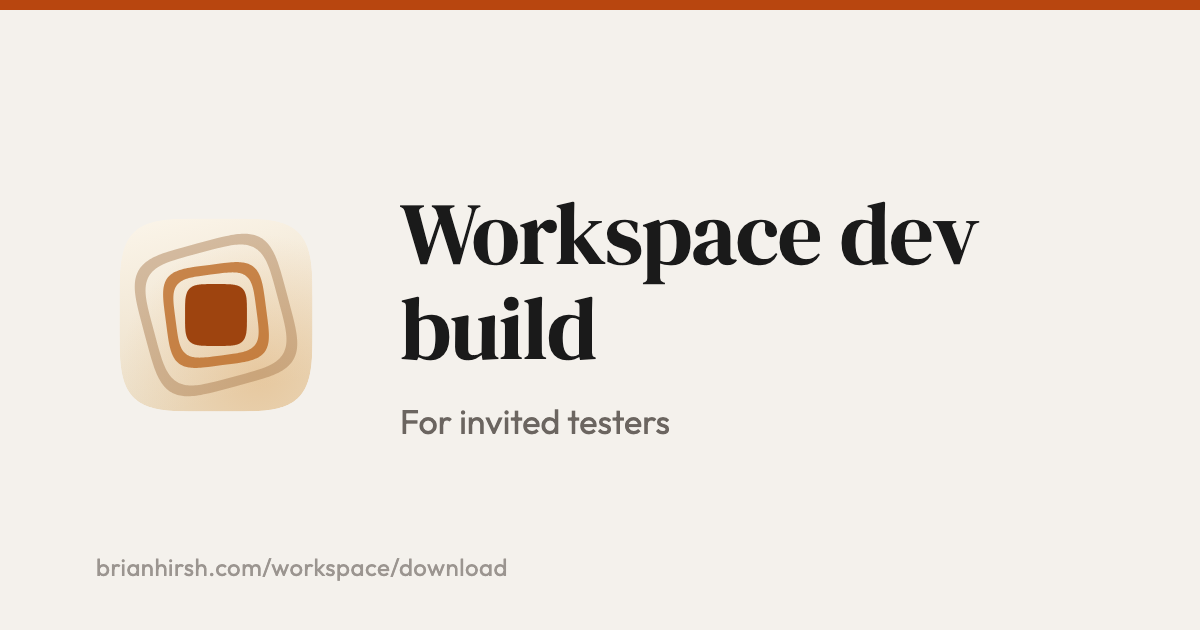
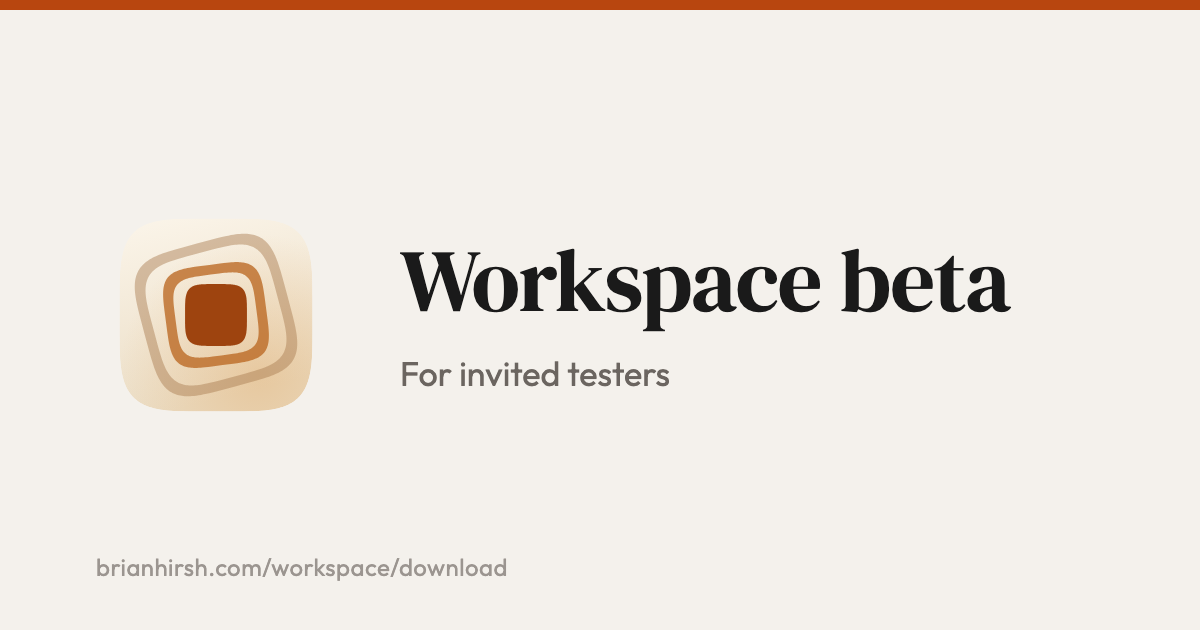
Beta, not dev build, across the Workspace pages and their previews (Brian, 27 Oct)
Every visitor-facing "dev build" becomes "beta", with MC: Invite's words: the eyebrow and section labels read "Beta", "Download the beta →", "This is an early beta, not a finished product.", "This is a beta, so expect rough edges and frequent updates.", and the signup lede "This is an early beta, not a finished product — expect rough edges." The signup and download descriptions and the download card's text follow Link previews.md, and the download card is drawn again. Code comments and api/README.md, which never reach a page, are left as they were.

Changed region(s): [[0.3083, 0.3016, 0.8633, 0.6937]]

diff --git a/workspace/download/index.html b/workspace/download/index.html
@@ -4,24 +4,24 @@
 <meta charset="UTF-8">
 <meta name="viewport" content="width=device-width, initial-scale=1.0">
 <title>Download Workspace — for invited testers</title>
-<meta name="description" content="For people who already have access: enter your password to download the current Workspace dev build. No password yet? Request access.">
+<meta name="description" content="For people who already have access: enter your password to download the current Workspace beta. No password yet? Request access.">
 <!-- Link previews (Marketing/Beta Signups/Link previews.md, 27 Oct 2026); the card is drawn by tools/make-og.mjs. -->
 <link rel="canonical" href="https://www.brianhirsh.com/workspace/download/">
 <meta property="og:type" content="website">
 <meta property="og:site_name" content="Brian Hirsh">
 <meta property="og:title" content="Download Workspace — for invited testers">
-<meta property="og:description" content="For people who already have access: enter your password to download the current Workspace dev build. No password yet? Request access.">
+<meta property="og:description" content="For people who already have access: enter your password to download the current Workspace beta. No password yet? Request access.">
 <meta property="og:url" content="https://www.brianhirsh.com/workspace/download/">
 <meta property="og:image" content="https://www.brianhirsh.com/og/workspace-download.png">
 <meta property="og:image:type" content="image/png">
 <meta property="og:image:width" content="1200">
 <meta property="og:image:height" content="630">
-<meta property="og:image:alt" content="Workspace dev build · For invited testers">
+<meta property="og:image:alt" content="Workspace beta · For invited testers">
 <meta name="twitter:card" content="summary_large_image">
 <meta name="twitter:title" content="Download Workspace — for invited testers">
-<meta name="twitter:description" content="For people who already have access: enter your password to download the current Workspace dev build. No password yet? Request access.">
+<meta name="twitter:description" content="For people who already have access: enter your password to download the current Workspace beta. No password yet? Request access.">
 <meta name="twitter:image" content="https://www.brianhirsh.com/og/workspace-download.png">
-<meta name="twitter:image:alt" content="Workspace dev build · For invited testers">
+<meta name="twitter:image:alt" content="Workspace beta · For invited testers">
 <meta name="theme-color" content="#F4F1EC" media="(prefers-color-scheme: light)">
 <meta name="theme-color" content="#141312" media="(prefers-color-scheme: dark)">
 <link rel="icon" type="image/svg+xml" href="/workspace/media/workspace-logo-light.svg">
@@ -153,7 +153,7 @@
     <!-- LOCKED -->
     <div id="gate">
       <div class="gate-head">
-        <div class="section-label">Dev Build</div>
+        <div class="section-label">Beta</div>
         <h1 class="page-title">Download Workspace</h1>
         <!-- Keep in sync with the DMG_VERSION environment variable, which
              drives the version shown after unlocking. -->
@@ -191,7 +191,7 @@
 
       <section class="terms">
           <h2>Before you install</h2>
-          <p><strong>This is an unreleased dev build, not a finished product.</strong> It may crash, behave strangely, lose data or change without warning. Please don't use it for anything you'd be upset to lose, and don't depend on it for real work.</p>
+          <p><strong>This is an early beta, not a finished product.</strong> It may crash, behave strangely, lose data or change without warning. Please don't use it for anything you'd be upset to lose, and don't depend on it for real work.</p>
           <p>It comes with no warranty of any kind, and I'm not liable for anything that goes wrong while you're using it.</p>
           <p><strong>It's shared with you privately.</strong> Workspace and everything in it stays my property. Please don't pass on the app, the download link or the password, and don't copy, reuse, republish, decompile or reverse-engineer any part of it. All rights reserved.</p>
           <p>Downloading it means you're happy with that. If you'd rather not be, just email me instead.</p>
@@ -211,7 +211,7 @@
               <strong>Open Anyway</strong>. On <strong>macOS 14 and earlier</strong>,
               right-click the app and choose <strong>Open</strong>.</li>
         </ol>
-        This is a dev build, so expect rough edges and frequent updates.
+        This is a beta, so expect rough edges and frequent updates.
         Hit a bug? Reply to the email I sent you, or write to
         <a href="mailto:brian@brianhirsh.com?subject=Workspace%20dev%20build%20feedback">brian@brianhirsh.com</a>.
       </div>

diff --git a/workspace/signup/index.html b/workspace/signup/index.html
@@ -4,13 +4,13 @@
 <meta charset="UTF-8">
 <meta name="viewport" content="width=device-width, initial-scale=1.0">
 <title>Request access to Workspace</title>
-<meta name="description" content="Get the early Workspace dev build for your Mac. Leave a name and an email or phone; it goes straight to Brian and nothing else is stored.">
+<meta name="description" content="Get the early Workspace beta for your Mac. Leave a name and an email or phone; it goes straight to Brian and nothing else is stored.">
 <!-- Link previews (Marketing/Beta Signups/Link previews.md, 27 Oct 2026); the card is drawn by tools/make-og.mjs. -->
 <link rel="canonical" href="https://www.brianhirsh.com/workspace/signup/">
 <meta property="og:type" content="website">
 <meta property="og:site_name" content="Brian Hirsh">
 <meta property="og:title" content="Request access to Workspace">
-<meta property="og:description" content="Get the early Workspace dev build for your Mac. Leave a name and an email or phone; it goes straight to Brian and nothing else is stored.">
+<meta property="og:description" content="Get the early Workspace beta for your Mac. Leave a name and an email or phone; it goes straight to Brian and nothing else is stored.">
 <meta property="og:url" content="https://www.brianhirsh.com/workspace/signup/">
 <meta property="og:image" content="https://www.brianhirsh.com/og/workspace-signup.png">
 <meta property="og:image:type" content="image/png">
@@ -19,7 +19,7 @@
 <meta property="og:image:alt" content="Request early access to Workspace">
 <meta name="twitter:card" content="summary_large_image">
 <meta name="twitter:title" content="Request access to Workspace">
-<meta name="twitter:description" content="Get the early Workspace dev build for your Mac. Leave a name and an email or phone; it goes straight to Brian and nothing else is stored.">
+<meta name="twitter:description" content="Get the early Workspace beta for your Mac. Leave a name and an email or phone; it goes straight to Brian and nothing else is stored.">
 <meta name="twitter:image" content="https://www.brianhirsh.com/og/workspace-signup.png">
 <meta name="twitter:image:alt" content="Request early access to Workspace">
 <meta name="theme-color" content="#F4F1EC" media="(prefers-color-scheme: light)">
@@ -61,9 +61,9 @@
     <a href="/workspace/" class="back-link">← Workspace</a>
 
     <div class="form-head">
-      <div class="section-label">Dev Build</div>
+      <div class="section-label">Beta</div>
       <h1 class="page-title">Request access</h1>
-      <p class="lede">This is an <strong>early dev build</strong>, not a polished beta — expect rough edges.</p>
+      <p class="lede">This is an <strong>early beta</strong>, not a finished product — expect rough edges.</p>
     </div>
 
     <form id="signupForm" novalidate>

diff --git a/workspace/index.html b/workspace/index.html
@@ -266,7 +266,7 @@
   </nav>
 
   <div class="intro fade-up">
-    <div class="eyebrow">Dev Build</div>
+    <div class="eyebrow">Beta</div>
     <picture class="app-icon">
       <source media="(prefers-color-scheme: dark)" srcset="/workspace/media/workspace-logo-dark.svg">
       <img src="/workspace/media/workspace-logo-light.svg" alt="" width="96" height="96" decoding="async">
@@ -309,7 +309,7 @@
       </a>
     </div>
     <p class="secondary-action">
-      Already have a password? <a href="/workspace/download/">Download the dev build →</a>
+      Already have a password? <a href="/workspace/download/">Download the beta →</a>
     </p>
   </div>
 
